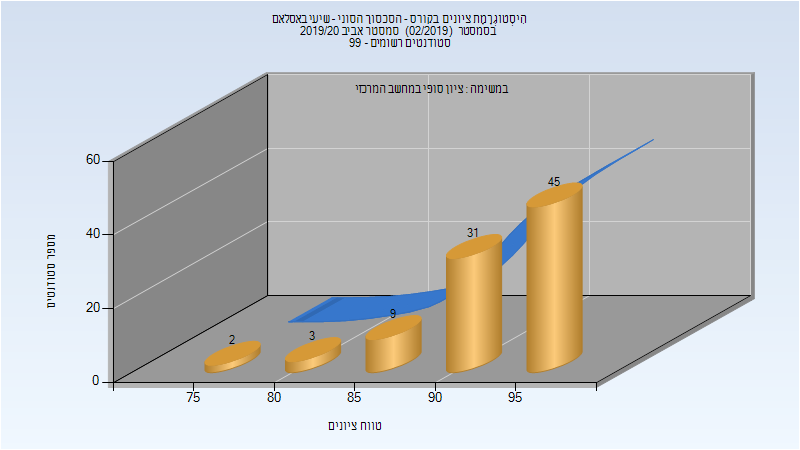
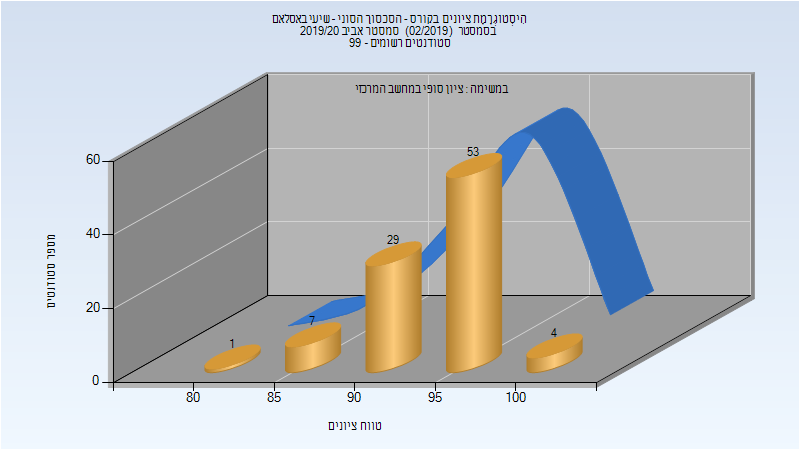
Deploy michael-maltsev/technion-histograms to github.com/michael-maltsev/technion-histograms.git:gh-pages

diff --git a/324945/index.html b/324945/index.html
@@ -580,13 +580,13 @@
 </thead>
 <tbody>
 <tr>
-<td>90</td>
-<td>90/0</td>
-<td>100</td>
-<td>78</td>
-<td>98</td>
-<td>92.833</td>
 <td>94</td>
+<td>94/0</td>
+<td>100</td>
+<td>80</td>
+<td>100</td>
+<td>94.17</td>
+<td>95</td>
 </tr>
 </tbody>
 </table>

diff --git a/324945/README.md b/324945/README.md
@@ -180,5 +180,5 @@
 
 | סטודנטים | עברו/נכשלו | אחוז עוברים | ציון מינימלי | ציון מקסימלי | ממוצע | חציון |
 | ---- | ---- | ---- | ---- | ---- | ---- | ---- |
-| 90 | 90/0 | 100 | 78 | 98 | 92.833 | 94 |
+| 94 | 94/0 | 100 | 80 | 100 | 94.17 | 95 |
 
